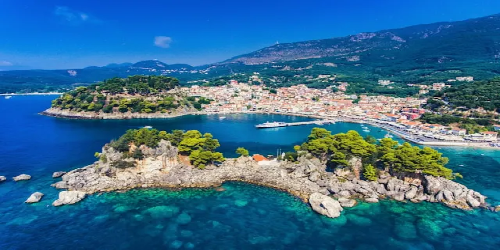
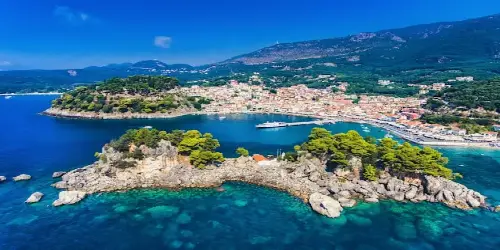
fixed auditor issues, root selector, compressed hero image small, remover the normalize.css link in the head

diff --git a/styles/place.css b/styles/place.css
@@ -9,19 +9,25 @@
    box-sizing: border-box;
 }
 
+:root {
+   --primary-color: #0E5AA7;
+   --border-color: rgba(13, 94, 175, 0.25);
+   --text-light: #ffffff;
+   --font-family: "Roboto", sans-serif;
+}
 
 /* 
    Base Page Styles
 */
 
 body {
-   font-family: "Roboto", sans-serif;
+   font-family: var(--font-family);
 }
 
 header,
 footer {
-   background-color: #0E5AA7;
-   color: white;
+   background-color: var(--primary-color);
+   color: var(--text-light);
 }
 
 h1,
@@ -34,7 +40,7 @@ footer {
    width: 100%;
    height: auto;
    display: block;
-   border-bottom: 6px solid #0E5AA7;
+   border-bottom: 6px solid var(--primary-color);
 }
 
 section li {
@@ -50,7 +56,7 @@ section li {
 }
 
 #data {
-   border-bottom: 1px solid rgba(13, 94, 175, 0.25);
+   border-bottom: 1px solid var(--border-color);
 }
 
 #weather {

diff --git a/place.html b/place.html
@@ -15,8 +15,6 @@
     <link href="https://fonts.googleapis.com/css2?family=Roboto:wght@100..900&display=swap" rel="stylesheet">
     <link rel="stylesheet"
         href="https://fonts.googleapis.com/css2?family=Material+Symbols+Outlined:opsz,wght,FILL,GRAD@24,400,0,0&icon_names=brightness_5" />
-
-    <link rel="stylesheet" href="styles/normalize.css">
     <link rel="stylesheet" href="styles/place.css">
     <link rel="stylesheet" href="styles/place-large.css">
 